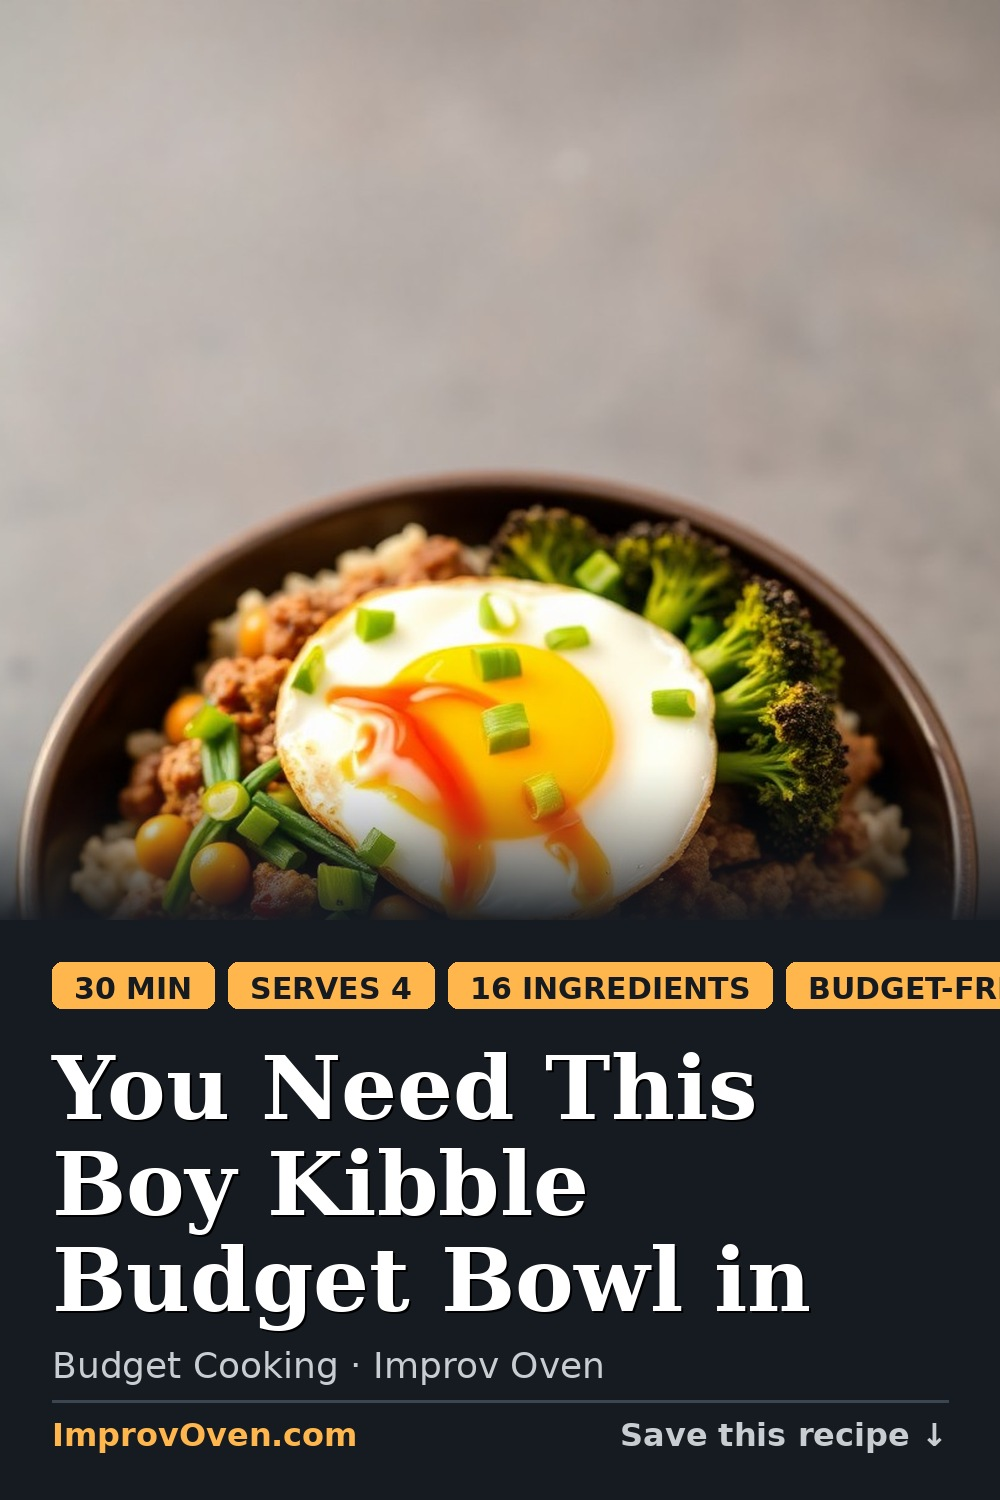
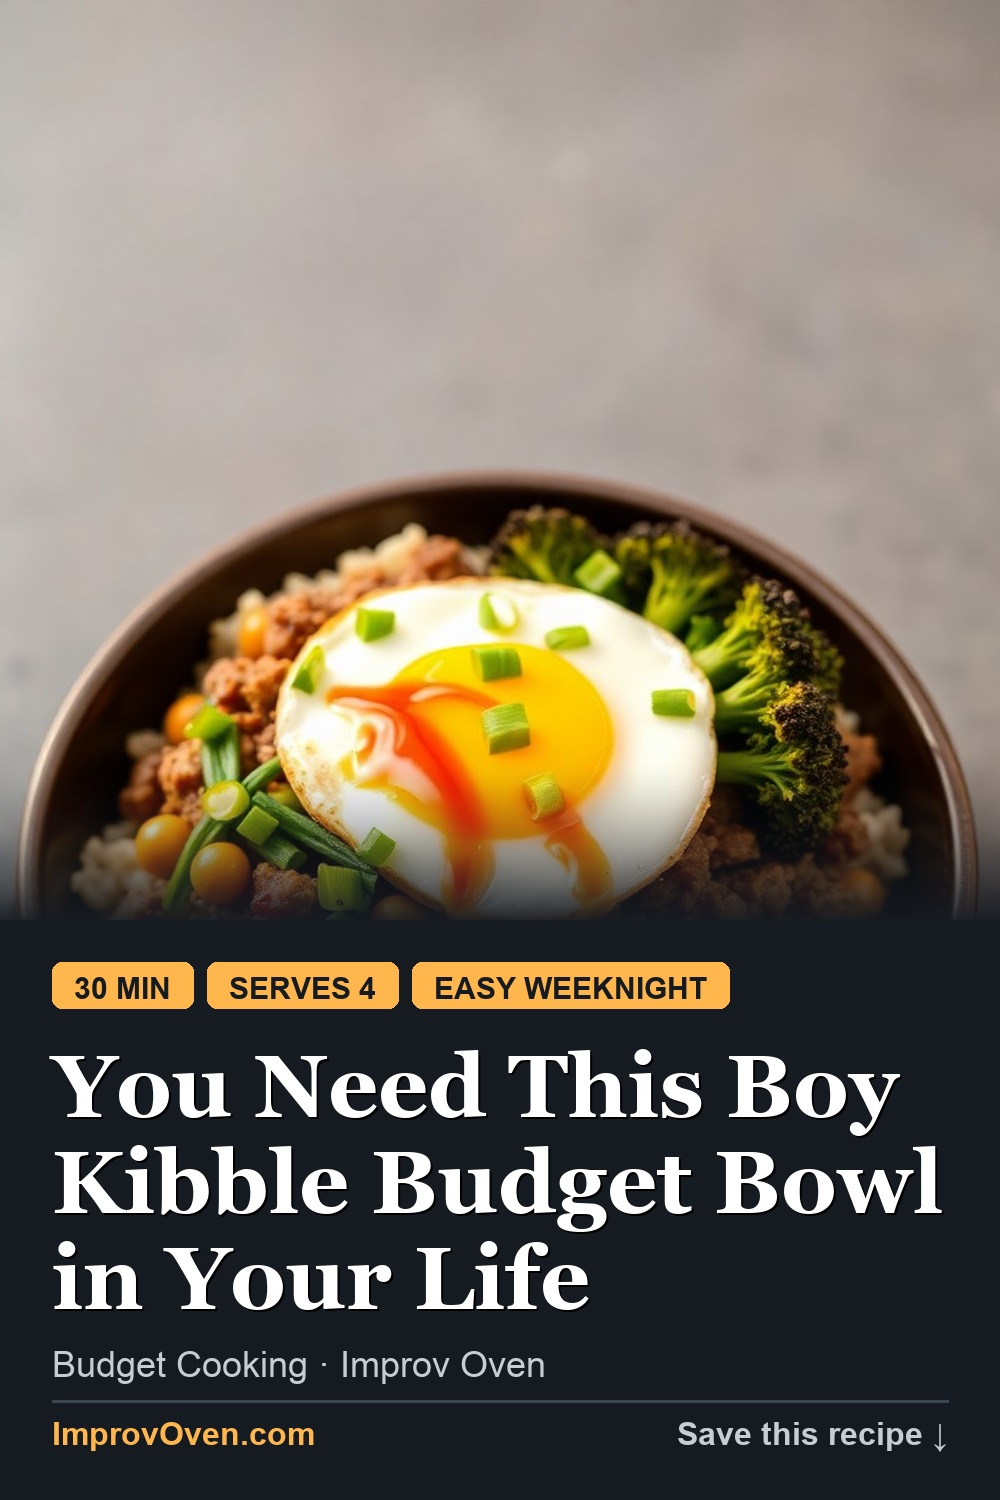
fix: Pinterest pin pill overflow + headline truncation mid-sentence
- Pills now check available width before rendering — stops last pill
  getting clipped at the right edge
- Headline font drops to 72px if text needs >3 lines at 88px
- Hook 'You Need This X in Your Life' only used when title ≤30 chars,
  avoiding awkward mid-phrase line breaks on longer titles

Changed region(s): [[0.062, 0.6133, 1.0, 0.92], [0.62, 0.9507, 0.961, 0.9813], [0.062, 0.9507, 0.372, 0.9813]]

diff --git a/scripts/generate-recipe.js b/scripts/generate-recipe.js
@@ -2549,11 +2549,14 @@ function buildPinterestOverlayCopy(recipe) {
   } else if (hookVariant === 4) {
     headline = `This ${cleanTitle} Costs Almost Nothing`;
   } else {
-    headline = `You Need This ${cleanTitle} in Your Life`;
+    // Keep it short enough to fit 3 lines at large font
+    headline = cleanTitle.length <= 30
+      ? `You Need This ${cleanTitle} in Your Life`
+      : `You Need This ${cleanTitle}`;
   }
 
-  // Cap headline at ~55 chars to keep it large and readable on the card
-  if (headline.length > 58) {
+  // Cap headline at ~62 chars — beyond this the 88px font needs >3 lines
+  if (headline.length > 62) {
     headline = cleanTitle;
   }
 

diff --git a/scripts/backfill-pinterest-images.js b/scripts/backfill-pinterest-images.js
@@ -56,9 +56,11 @@ function buildPinterestOverlayCopy(recipe) {
   } else if (hookVariant === 4) {
     headline = `This ${cleanTitle} Costs Almost Nothing`;
   } else {
-    headline = `You Need This ${cleanTitle} in Your Life`;
+    headline = cleanTitle.length <= 30
+      ? `You Need This ${cleanTitle} in Your Life`
+      : `You Need This ${cleanTitle}`;
   }
-  if (headline.length > 58) headline = cleanTitle;
+  if (headline.length > 62) headline = cleanTitle;
 
   const badges = [];
   if (Number.isFinite(totalMins) && totalMins > 0) badges.push(`${totalMins} MIN`);

diff --git a/scripts/pinterest_image.py b/scripts/pinterest_image.py
@@ -161,10 +161,13 @@ MARGIN   = 52
 pill_y   = CARD_Y + 42
 x_cursor = MARGIN
 pill_data = []
+MAX_PILL_X = 1000 - MARGIN  # don't let pills run off the right edge
 for badge in badges[:4]:
     bb = draw.textbbox((0, 0), badge, font=font_pill)
     tw = bb[2] - bb[0]
     pw = tw + PILL_PAD * 2
+    if x_cursor + pw > MAX_PILL_X:
+        break  # pill would overflow — skip the rest
     pill_data.append((x_cursor, badge, tw, pw))
     x_cursor += pw + PILL_GAP
 
@@ -198,7 +201,21 @@ def wrap_text(text, font, max_w):
         lines.append(' '.join(cur))
     return lines
 
-hl_lines = wrap_text(headline, font_headline, MAX_W)[:3]
+# Wrap headline, but if it exceeds 3 lines reduce font size rather than
+# truncating mid-sentence (a cut-off headline looks broken on the pin).
+hl_lines = wrap_text(headline, font_headline, MAX_W)
+if len(hl_lines) > 3:
+    # Try a smaller font first
+    font_headline_sm = load_font(SERIF_BOLD, 72)
+    hl_lines_sm = wrap_text(headline, font_headline_sm, MAX_W)
+    if len(hl_lines_sm) <= 3:
+        font_headline = font_headline_sm
+        hl_lines = hl_lines_sm
+        HL_LH = 80
+    else:
+        # Still too long — keep only first 3 lines but don't break a phrase
+        # mid-word; just accept the truncation at a word boundary
+        hl_lines = hl_lines[:3]
 y = HL_Y
 for line in hl_lines:
     # Soft shadow for legibility
